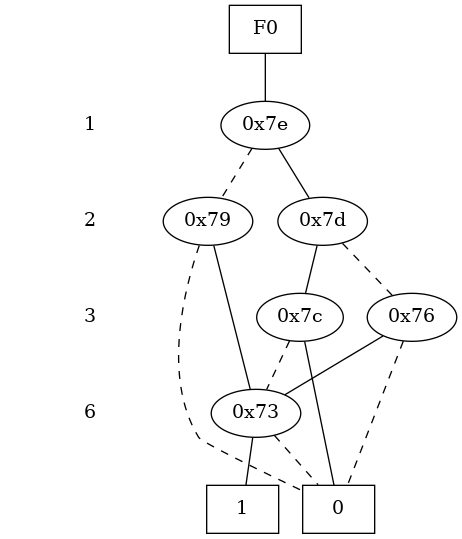
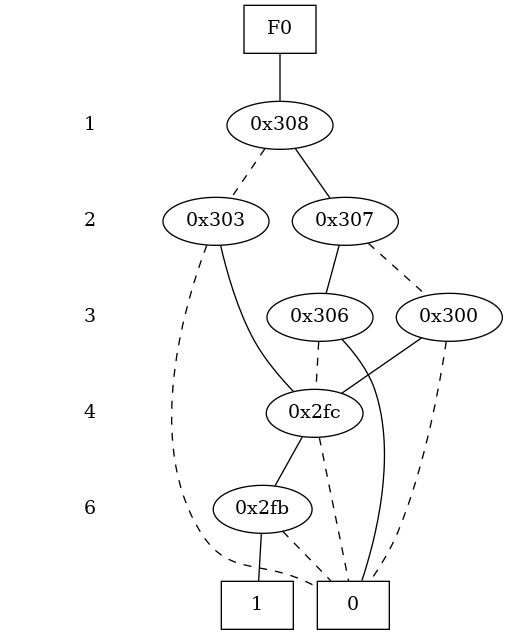
more flexible variable ordering debugging.

diff --git a/src/main.cpp b/src/main.cpp
@@ -28,6 +28,8 @@ int main(int argc, char *argv[]) {
     if (options.m_values.hack_debug){
         LOG_MESSAGE(log_level::info) << "You unlocked full control. Good luck modifying the source code";
 
+
+        /*
         sas_parser parser(options.m_values.sas_file);
         if(parser.start_parsing() == -1){
             LOG_MESSAGE(log_level::error) << "Error while parsing sas_file";
@@ -52,44 +54,49 @@ int main(int argc, char *argv[]) {
         }
 
         builder.print_bdd(clauses.get_num_variables());
+        */
 
-
-        /*
+        
         bdd_manager builder;
         //dd_builder::construct_dd_linear_disjoint(builder, clauses, options.m_values.build_order, options.m_values.reverse_order);
 
-        std::vector<int> a,b,c,d,e;
-        a.push_back(-1);a.push_back(-2);a.push_back(-3);
-        b.push_back(1);b.push_back(2);
-        c.push_back(2);c.push_back(3);
-        d.push_back(6);
-        //e.push_back(6);
-        builder.conjoin_clause(a);
-        builder.conjoin_clause(b);
-        builder.conjoin_clause(c);
-        builder.conjoin_clause(d);
-        //builder.conjoin_clause(e);
+
+        //std::vector<int> a,b,c,d,e;
+        //a.push_back(-1);a.push_back(-2);a.push_back(-3);
+        //b.push_back(1);b.push_back(2);
+        //c.push_back(2);c.push_back(3);
+        //d.push_back(6);
+        //e.push_back(4);
+
+        std::tuple<int, int, std::vector<planning_cnf::clause>> cnf_data = planning_cnf::cnf::parse_cnf_file_to_clauses("problem.cnf");
+        int num_variables = std::get<0>(cnf_data);
+        int num_clauses = std::get<1>(cnf_data);
+        std::vector<planning_cnf::clause> clauses = std::get<2>(cnf_data);
+
+        for(planning_cnf::clause c: clauses){
+            builder.conjoin_clause(c);
+        }
         
-        std::vector<int> var_order = builder.get_variable_order(7);
+        std::vector<int> var_order = builder.get_variable_order(num_variables);
         for (int i = 0; i < var_order.size(); i++){
             std::cout << "At index " << i << ": " << var_order[i] << std::endl;
         }
 
-        //builder.write_bdd_to_dot_file("befor_reorder.dot");
+        builder.write_bdd_to_dot_file("befor_reorder.dot");
 
 
         std::cout << "Order after shifting" << std::endl;
 
         builder.reduce_heap();
-        var_order = builder.get_variable_order(7);
+        var_order = builder.get_variable_order(num_variables);
         for (int i = 0; i < var_order.size(); i++){
             std::cout << "At index " << i << ": " << var_order[i] << std::endl;
         }
 
         builder.write_bdd_to_dot_file("after_reorder.dot");
+        
 
-        builder.print_bdd(4);
-        */
+        //builder.print_bdd(4);
     }
 
     if (options.m_values.encode_cnf) {

diff --git a/src/cnf.cpp b/src/cnf.cpp
@@ -2,6 +2,9 @@
 
 #include <fstream>
 #include <iostream>
+#include <sstream>
+
+#include "logging.h"
 
 using namespace planning_cnf;
 
@@ -70,4 +73,38 @@ void cnf::write_to_file(std::string filepath) {
         }
         file_out << "0" << std::endl;
     }
+}
+
+std::tuple<int, int, std::vector<clause>> cnf::parse_cnf_file_to_clauses(std::string file_path){
+
+    LOG_MESSAGE(log_level::info) << "Starting to parse cnf file to clauses";
+
+    std::vector<clause> all_clauses;
+    std::ifstream infile(file_path);
+    std::string line;
+    std::istringstream iss;
+
+    // parse fist line
+    std::getline(infile, line);
+    iss = std::istringstream(line);
+    std::string s_p, s_cnf;
+    int num_variables, num_clauses;
+    iss >> s_p; iss >> s_cnf; 
+    iss >> num_variables; iss >> num_clauses;
+
+    LOG_MESSAGE(log_level::debug) << s_p << " " << s_cnf << " " << num_variables << " " << num_clauses;
+
+    while(std::getline(infile, line)){
+        iss = std::istringstream(line);
+        clause new_clause;
+        int var;
+        iss >> var;
+        while(var != 0) {
+            new_clause.push_back(var);
+            iss >> var;
+        }
+        all_clauses.push_back(new_clause);
+    }
+
+    return std::make_tuple(num_variables, num_clauses, all_clauses);
 }

diff --git a/include/cnf.h b/include/cnf.h
@@ -55,7 +55,8 @@ class cnf {
     std::map<tagged_variable, int> m_variable_map;
     std::map<int, tagged_variable> m_inverse_variable_map;
 
-    cnf(int num_timesteps);
+    cnf(int num_timesteps); 
+    cnf(std::string file_path);
     ~cnf();
 
     // adds a clause to the cnf. the tag indicates which type of clause this is
@@ -88,6 +89,9 @@ class cnf {
 
     // writes the cnf to file in standart format
     void write_to_file(std::string filepath);
+    // take a cnf file and tries to parse it into a set of clauses (kind of inverse for above)
+    // return num_variable, num_clauses, and the clauses
+    static std::tuple<int, int, std::vector<clause>> parse_cnf_file_to_clauses(std::string file_path);
 };
 
 }  // namespace planning_cnf

diff --git a/src/bdd_manager.cpp b/src/bdd_manager.cpp
@@ -189,7 +189,7 @@ void bdd_manager::conjoin_clause(std::vector<int> &clause) {
 }
 
 // This method returns the variable permutation
-// the ith entry of the return verctor dictates what variable(index) resides in the ith layer of the bdd
+// the ith entry of the return verctor dictates what variable (index) resides in the ith layer of the bdd
 std::vector<int> bdd_manager::get_variable_order(int num_variables){
     std::vector<int> permutation(num_variables+1, -1);
     for(int i = 0; i <= num_variables; i++){
@@ -198,7 +198,7 @@ std::vector<int> bdd_manager::get_variable_order(int num_variables){
             continue;
         }
         permutation[perm_pos] = i;
-    }
+    }   
 
     return permutation;
 }

diff --git a/include/cnf_encoder.h b/include/cnf_encoder.h
@@ -1,5 +1,4 @@
 #include <map>
-#include <sstream>
 #include <string>
 #include <unordered_map>
 #include <vector>

diff --git a/src/cnf_encoder.cpp b/src/cnf_encoder.cpp
@@ -2,6 +2,7 @@
 
 #include <fstream>
 #include <iostream>
+#include <sstream>
 
 #include "logging.h"
 
